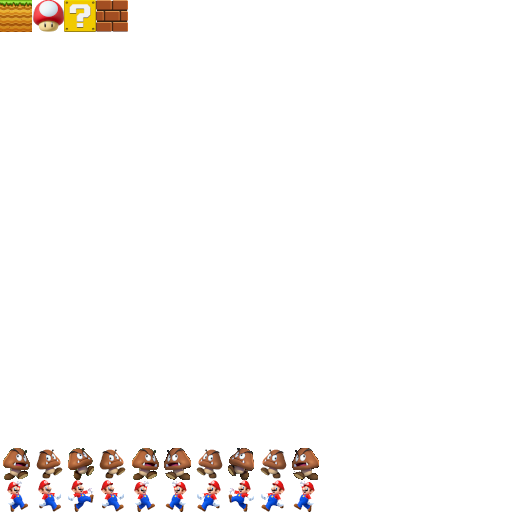
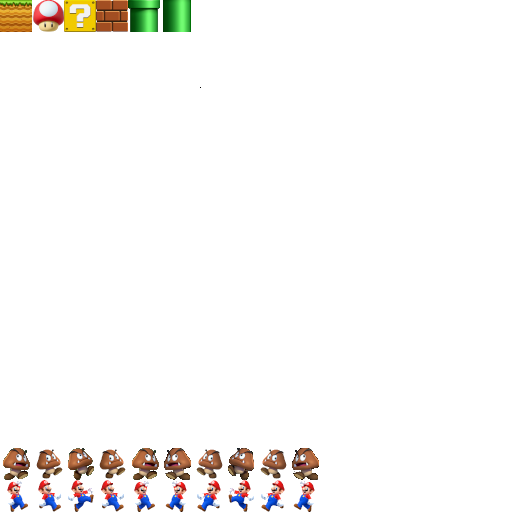
Damaging system

Changed region(s): [[0.25, 0.0, 0.375, 0.0625]]

diff --git a/src/com/mario/entity/mob/Player.java b/src/com/mario/entity/mob/Player.java
@@ -16,6 +16,7 @@ public class Player extends Entity {
     private int frame = 0;
     private int frameDelay = 0;
     private boolean animate = false;
+    private int pixelsTravelled = 0;
 
     public Player(int x, int y, int width, int heigth, Id id, Handler handler) {
         super(x, y, width, heigth, id, handler);
@@ -35,13 +36,17 @@ public class Player extends Entity {
     public void tick() {
         x += velX;
         y += velY;
+
+        if(goingDownPipe)
+            pixelsTravelled += velY;
+
         //if(y<0) y=0;
         //if(y+heigth>=771) y=771-heigth;
         if(velX != 0) animate=true;
         else animate=false;
 
         for(Tile tile: handler.tiles){
-            if(! tile.soild) break;
+            if(!tile.soild) break;
             if(tile.getId()==Id.wall){
                 if(getBoundsTop().intersects(tile.getBounds())){
                     setVelY(0);
@@ -101,8 +106,6 @@ public class Player extends Entity {
                     setVelX(0);
                     x = tile.getX() - tile.width;
                 }
-
-                //if(getBoundsTop().intersects(tile.getBounds())) tile.activated=true;
             }
 
             for(int i=0; i<handler.entities.size(); i++){
@@ -139,7 +142,7 @@ public class Player extends Entity {
                 }
             }
         }
-        if(jumping){
+        if(jumping && !goingDownPipe){
             gravity -= 0.1;
             setVelY((int) -gravity);
             if(gravity <= 0.0){
@@ -147,7 +150,7 @@ public class Player extends Entity {
                 falling = true;
             }
         }
-        if(falling){
+        if(falling && !goingDownPipe){
             gravity += 0.1;
             setVelY((int) gravity);
         }
@@ -161,130 +164,26 @@ public class Player extends Entity {
                 frameDelay = 0;
             }
         }
-    }
-}
-/*
-public void tick() {
-        x += velX;
-        y += velY;
-
-        if (velX != 0) animate = true;
-        else animate = false;
-        for (int i = 0; i < handler.tiles.size(); i++) {
-            Tile t = handler.tiles.get(i);
-            if (t.isSoild()) {
-                if (t.getId() == Id.wall) {
-                    if (getBoundsTop().intersects(t.getBounds())) {
-                        setVelY(0);
-                        if (jumping) {
-                            jumping = false;
-                            gravity = 0.8;
-                            falling = true;
-                        }
-
+        for(Tile tile: Game.handler.tiles){
+            if(tile.getId()==Id.pipe){
+                if(getBoundsBottom().intersects(tile.getBounds())) {
+                    switch (tile.facing) {
+                        case (0):
+                            setVelY(-5);
+                            setVelX(0);
+                            break;
+                        case (2):
+                            setVelY(5);
+                            setVelX(0);
+                            break;
                     }
-
-                    if (getBoundsBottom().intersects(t.getBounds())) {
-                        setVelY(0);
-                        if (falling) falling = false;
-                    } else {
-                        if (!falling && !jumping) {
-                            gravity = 0.8;
-                            falling = true;
-                        }
-                    }
-
-                    if (getBoundsLeft().intersects(t.getBounds())) {
-                        setVelX(0);
-                        x = t.getX() + t.width;
-                    }
-
-                    if (getBoundsRigth().intersects(t.getBounds())) {
-                        setVelX(0);
-                        x = t.getX() - t.width;
-                    }
+                    if (pixelsTravelled > tile.heigth + heigth) goingDownPipe = false;
                 }
-                if (t.getId() == Id.powerUp) {
-
-                    if (getBoundsTop().intersects(t.getBounds())) {
-                        setVelY(0);
-                        if (jumping) {
-                            jumping = false;
-                            gravity = 0.8;
-                            falling = true;
-                        }
-                        t.activated = true;
-                    }
-                    if (getBoundsBottom().intersects(t.getBounds())) {
-                        setVelY(0);
-                        if (falling) falling = false;
-                    } else {
-                        if (!falling && !jumping) {
-                            gravity = 0.8;
-                            falling = true;
-                        }
-                    }
-
-                    if (getBoundsLeft().intersects(t.getBounds())) {
-                        setVelX(0);
-                        x = t.getX() + t.width;
-                    }
-
-                    if (getBoundsRigth().intersects(t.getBounds())) {
-                        setVelX(0);
-                        x = t.getX() - t.width;
-                    }
-                }
-            }
-
-            for (int j = 0; j < handler.entities.size(); j++) {
-                Entity e = handler.entities.get(j);
-
-                if (e.getId() == Id.mushroom) {
-                    if (getBounds().intersects(e.getBounds())) {
-                        int tpx = getX();
-                        int tpy = getY();
-                        width *= 2;
-                        heigth *= 2;
-                        setX(tpx - width);
-                        setY(tpy - heigth);
-                        e.die();
-                    }
-                } else if (e.getId() == Id.goomba) {
-                    if (getBoundsBottom().intersects(e.getBoundsTop())) {
-                        e.die();
-                    } else if (getBounds().intersects(e.getBounds())) {
-                        die();
-                    }
-                }
-            }
-        }
-        if (jumping) {
-            gravity -= 0.1;
-            setVelY((int) -gravity);
-            if (gravity <= 0.0) {
-                jumping = false;
-                falling = true;
-            }
-        }
-        if (falling) {
-            gravity += 0.1;
-            setVelY((int) gravity);
-        }
-        if (animate) {
-            frameDelay++;
-            if (frameDelay >= 3) {
-                frame++;
-                if (frame >= 5) {
-                    frame = 0;
-                }
-                frameDelay = 0;
             }
         }
     }
 }
 
- */
 
 
 

diff --git a/src/com/mario/input/keyInput.java b/src/com/mario/input/keyInput.java
@@ -3,6 +3,7 @@ package com.mario.input;
 import com.mario.Game;
 import com.mario.Id;
 import com.mario.entity.Entity;
+import com.mario.tile.Tile;
 
 import java.awt.event.KeyEvent;
 import java.awt.event.KeyListener;
@@ -18,14 +19,18 @@ public class keyInput implements KeyListener{
         int key= e.getKeyCode();
         for(Entity entity: Game.handler.entities) {
             if(entity.getId()== Id.player){
+                if(entity.goingDownPipe) return;
                 switch (key) {
                     case KeyEvent.VK_W:
                         if(! entity.jumping) entity.jumping=true;
                         entity.gravity = 10.0;
                         break;
                     case KeyEvent.VK_S:
-                        if(! entity.falling) entity.falling=true;
-                        entity.gravity = 10.0;
+                        for(Tile t :Game.handler.tiles){
+                            if(t.getId()==Id.pipe)
+                                if(entity.getBoundsBottom().intersects(t.getBounds()))
+                                    if(! entity.goingDownPipe) entity.goingDownPipe=true;
+                        }
                         break;
                     case KeyEvent.VK_A:
                         entity.setVelX(-5);

diff --git a/src/com/mario/Game.java b/src/com/mario/Game.java
@@ -27,6 +27,7 @@ public class Game extends Canvas implements Runnable {
     public static Sprite grass;
     public static Sprite powerUp;
     public static Sprite usedPowerUp;
+    public static Sprite pipe;
 
     public static Sprite[] player= new Sprite[10];
     public static Sprite[] goomba= new Sprite[10];
@@ -51,6 +52,7 @@ public class Game extends Canvas implements Runnable {
         grass= new Sprite(sheet, 1,1);
         powerUp= new Sprite(sheet,3,1);
         usedPowerUp= new Sprite(sheet, 4,1);
+        pipe = new Sprite(sheet, 6,1);
         for(int i=0; i<player.length; i++){
             player[i]= new Sprite(sheet, i+1, 16);
         }
@@ -59,7 +61,7 @@ public class Game extends Canvas implements Runnable {
         }
 
         try {
-            image= ImageIO.read(getClass().getResource("/level.png"));
+            image= ImageIO.read(getClass().getResource("/levelPiped.png"));
         } catch (IOException e) {
             e.printStackTrace();
         }

diff --git a/src/com/mario/Handler.java b/src/com/mario/Handler.java
@@ -4,6 +4,7 @@ import com.mario.entity.Entity;
 import com.mario.entity.mob.Goomba;
 import com.mario.entity.mob.Player;
 import com.mario.entity.powerUp.Mushroom;
+import com.mario.tile.Pipe;
 import com.mario.tile.PowerUpBlock;
 import com.mario.tile.Tile;
 import com.mario.tile.Wall;
@@ -66,6 +67,8 @@ public class Handler {
                     addEntity(new Mushroom(x*64,y*64,64,64,Id.mushroom,this));
                 if(red==255 && green==119 && blue==0)
                     addEntity(new Goomba(x*64,y*64,64,64, Id.goomba, this));
+                if(red==0 && (green>123 && green<129) && blue==0)
+                    addTile(new Pipe(x*64, y*64, 64,64*16,true,Id.pipe, this, 128-green));
             }
         }
     }

diff --git a/src/com/mario/tile/Pipe.java b/src/com/mario/tile/Pipe.java
@@ -1,0 +1,25 @@
+package com.mario.tile;
+
+import com.mario.Game;
+import com.mario.Handler;
+import com.mario.Id;
+
+import java.awt.*;
+
+public class Pipe extends Tile{
+
+    public Pipe(int x, int y, int width, int heigth, boolean soild, Id id, Handler handler, int facing) {
+        super(x, y, width, heigth, soild, id, handler);
+        this.facing= facing;
+    }
+
+    @Override
+    public void render(Graphics g) {
+        g.drawImage(Game.pipe.getImage(),x, y, width, heigth, null);
+    }
+
+    @Override
+    public void tick() {
+
+    }
+}

diff --git a/src/com/mario/entity/Entity.java b/src/com/mario/entity/Entity.java
@@ -17,6 +17,7 @@ public abstract class Entity {
     public boolean falling = true;
     public double gravity = 0.0;
     public int facing = 0; // 0-left , 1-rigth
+    public boolean goingDownPipe= false;
 
     public Entity(int x, int y, int width, int heigth, Id id, Handler handler) {
         this.x = x;

diff --git a/src/com/mario/tile/Tile.java b/src/com/mario/tile/Tile.java
@@ -16,6 +16,7 @@ public abstract class Tile {
     public int velX, velY;
     public Id id;
     public Handler handler;
+    public int facing;
 
     public Tile(int x, int y, int width, int heigth, boolean soild, Id id, Handler handler) {
         this.x = x;

diff --git a/src/com/mario/Id.java b/src/com/mario/Id.java
@@ -1,5 +1,5 @@
 package com.mario;
 
 public enum Id {
-    player, wall, mushroom, powerUp, goomba
+    player, wall, mushroom, powerUp, pipe, goomba
 }
